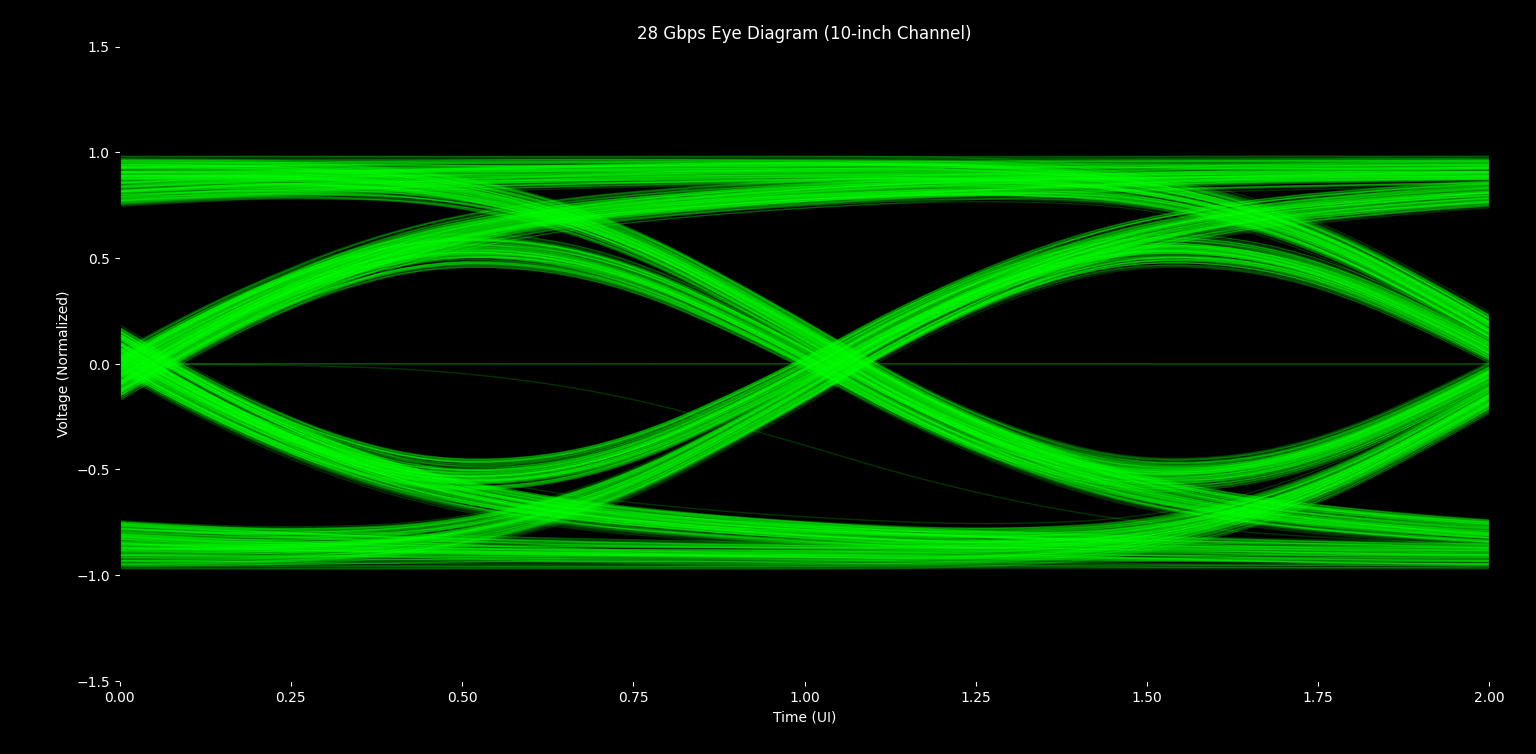
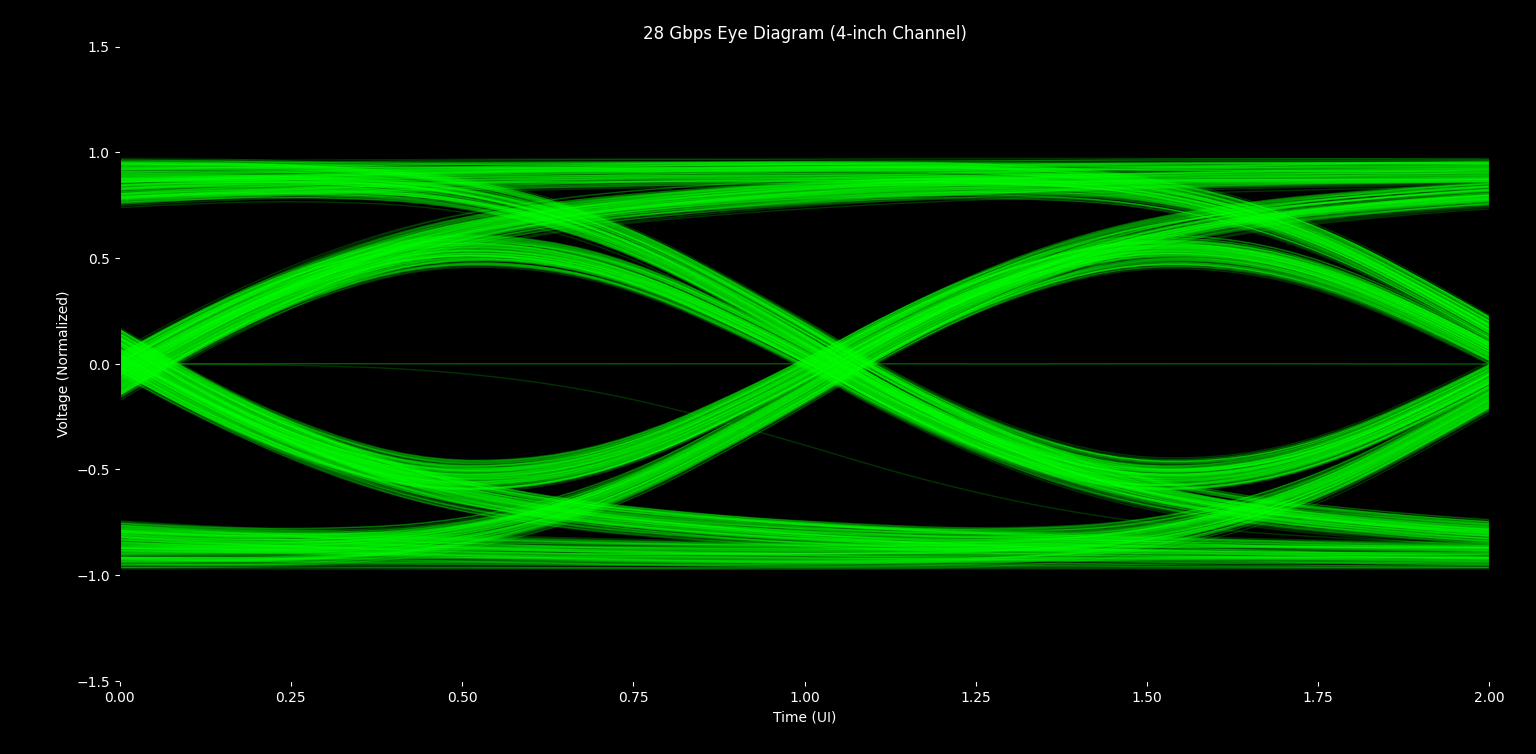
Updated readme.md

Changed region(s): [[0.0625, 0.183, 0.9688, 0.7626], [0.4062, 0.0305, 0.625, 0.061]]

diff --git a/eye_diagram.py b/eye_diagram.py
@@ -68,7 +68,7 @@ def run_eye_sim():
         segment = rx_signal[i*fold_width : (i+1)*fold_width]
         plt.plot(t_axis, segment, color='lime', alpha=0.2, linewidth=1)
 
-    plt.title(f"28 Gbps Eye Diagram (10-inch Channel)", color='white')
+    plt.title(f"28 Gbps Eye Diagram (4-inch Channel)", color='white')
     plt.xlabel("Time (UI)", color='white')
     plt.ylabel("Voltage (Normalized)", color='white')
     plt.xlim(0, 2)
